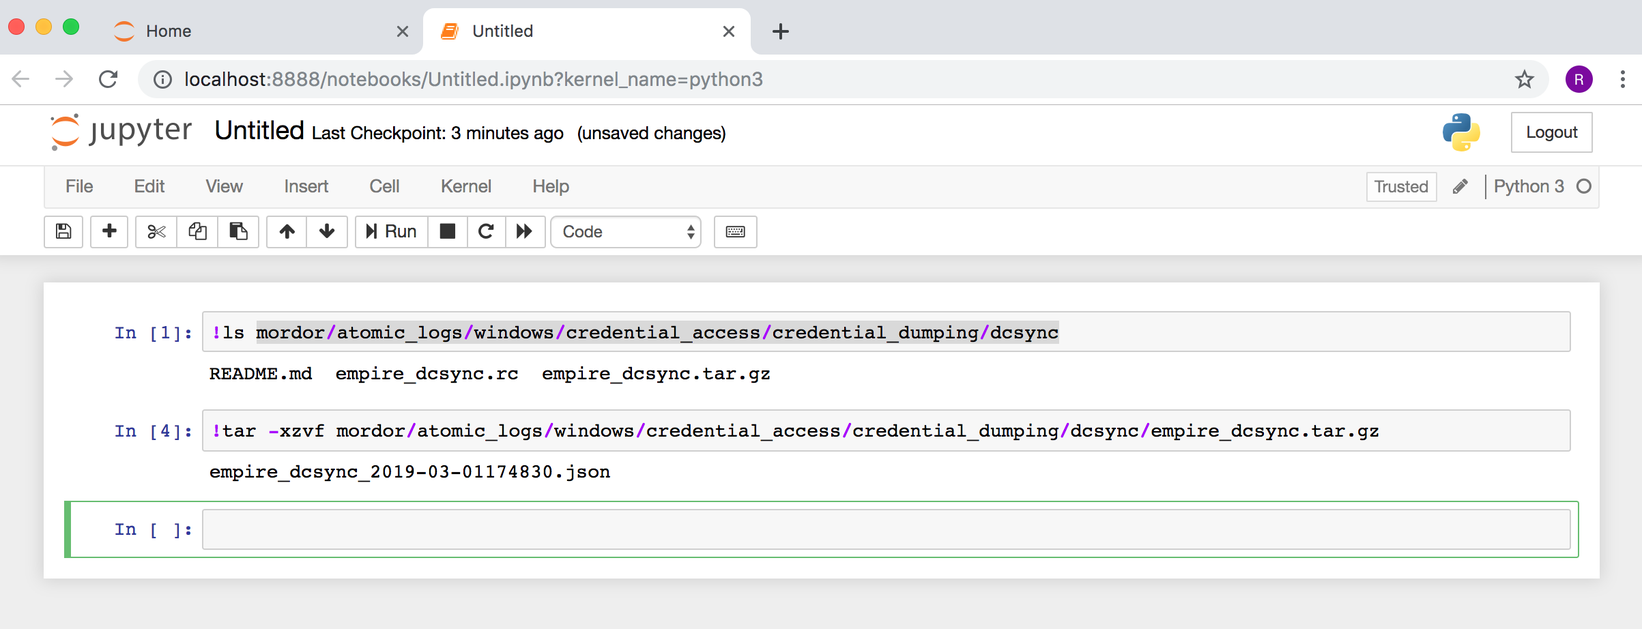
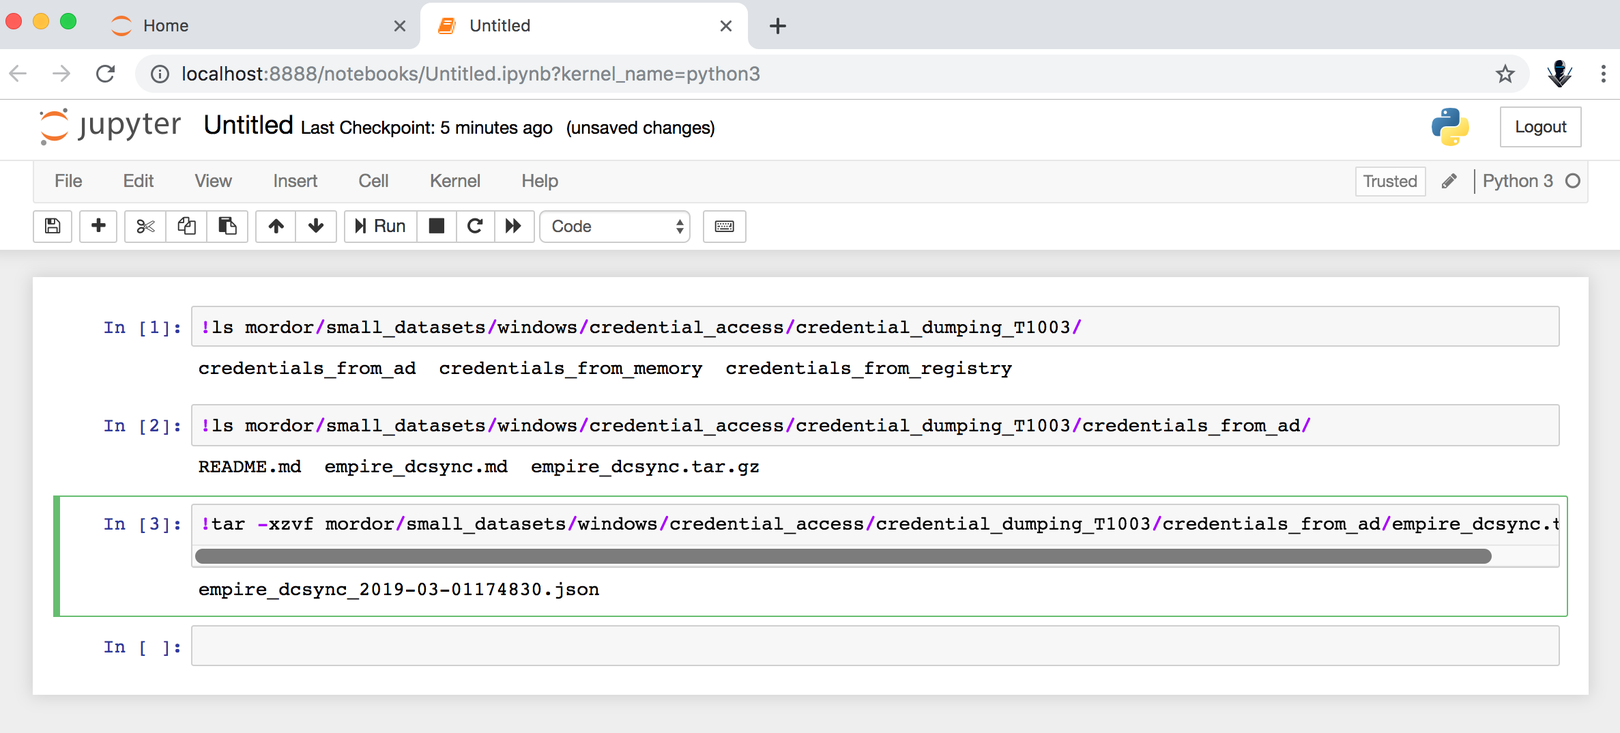
Redthedocs Update
Updating Images

Changed region(s): [[0.0, 0.0, 1.0, 0.9414]]

diff --git a/docs/build/html/searchindex.js b/docs/build/html/searchindex.js
@@ -1,1 +1,1 @@
-Search.setIndex({docnames:["consume_mordor","index","license","network_config","network_design"],envversion:{"sphinx.domains.c":1,"sphinx.domains.changeset":1,"sphinx.domains.cpp":1,"sphinx.domains.javascript":1,"sphinx.domains.math":2,"sphinx.domains.python":1,"sphinx.domains.rst":1,"sphinx.domains.std":1,"sphinx.ext.viewcode":1,sphinx:55},filenames:["consume_mordor.rst","index.rst","license.rst","network_config.rst","network_design.rst"],objects:{},objnames:{},objtypes:{},terms:{"00c04fc2dcd2":0,"0facbeda640c":0,"1131f6aa":0,"1131f6ad":0,"11d1":0,"2e83a98485eb":0,"444d":0,"4c62":0,"6gb":0,"89e95b76":0,"90311c8670ed2bd71f7d9e8378fdc39711ef65a0b3ed6296":0,"991a":0,"9c07":0,"case":[1,2],"class":2,"default":0,"final":2,"function":2,"import":2,"long":2,"new":[0,2],"public":[1,2],"return":2,"short":2,"void":2,AND:[0,2],And:2,BEING:2,BUT:2,But:2,FOR:2,For:2,HAS:2,MBs:0,NOT:[0,2],Not:2,SUCH:2,Such:2,THE:[0,2],THERE:2,The:[0,1,2,4],These:2,USE:2,Use:[0,2],WILL:2,WITH:2,abil:2,about:[1,2],abov:[0,2],absenc:2,absolut:2,abus:2,accept:2,access:[0,2],accompani:2,accord:2,account:0,acct001:4,achiev:2,acknowledg:2,acquir:2,across:[1,2],act:0,action:2,activ:[1,2,4],actual:2,actviti:0,adapt:2,add:2,added:2,addit:[1,2],address:[2,4],administr:4,adopt:2,advers:2,adversari:[1,4],advis:2,affect:2,affero:2,affirm:2,afford:1,after:2,against:2,aggreg:2,agre:2,agreement:2,aim:2,all:[0,2],alleg:2,allow:[0,1,2],along:2,alpha02262019:0,alreadi:2,also:2,altern:2,although:2,among:2,analysi:0,analyst:1,analyt:1,analyz:0,ancillari:2,ani:2,anti:2,anyon:2,anyth:2,apach:0,app:0,appli:2,applic:[0,2],appropri:2,approxim:2,area:2,aris:2,around:1,arrang:2,articl:2,ask:2,assert:2,asset:2,associ:2,assum:2,assumpt:2,assur:2,atomic_log:0,att:1,attach:2,attack:[],attempt:2,attribut:2,audit:[],author:[0,2],auto:0,automat:2,avail:[0,2],avoid:2,awai:2,awesom:1,bad:1,base:[0,2],base_url:0,basic:[0,2],becaus:2,been:2,beer:[],behalf:2,being:[0,2],believ:2,below:2,benefit:2,best:2,between:2,beyond:2,bodi:2,book:1,both:2,box:[0,2],brief:2,broker:0,brows:0,browser:0,build:0,busi:2,call:2,can:[0,1,2],cannot:2,captur:1,carri:2,categor:1,caus:2,ceas:2,certain:2,cessat:2,chang:2,character:2,charg:2,check:0,choic:0,choos:[0,2],circumst:2,circumvent:2,civil:2,claim:2,clear:2,clearli:2,client:4,clone:0,close:2,code:[0,2],collect:[1,2],collector:4,colllect:4,com:0,combin:2,come:[1,2,4],command:[0,2],commerci:2,commit:2,common:2,commun:[0,2],compil:2,complet:0,compli:2,complianc:2,compon:2,compos:0,comput:2,concern:2,conda:0,condit:2,configur:1,confirm:0,connect:2,consequ:2,consequenti:2,consid:2,consist:2,conspicu:2,constantli:2,constitut:2,constru:2,consum:2,consumpt:1,contact:2,contain:[0,2],content:2,context:[1,2],continu:2,contractu:2,contradict:2,contrast:2,contribut:1,contributor:2,control:[0,2],convei:2,conveni:[0,2],convey:2,cooki:0,copi:[0,2],copyleft:2,copyright:2,correct:2,correl:1,correspond:2,cost:2,could:[0,2],counterclaim:2,countri:2,cours:2,court:2,coven:2,cover:2,coverag:2,creat:0,creativ:1,credential_access:0,credential_dump:0,criterion:2,cross:2,ctf:1,cure:2,current:0,custom:2,customarili:2,cyb3rward0g:0,dai:2,damag:2,danger:2,data:[1,2],dataset:1,date:2,dcsync:0,decemb:2,decid:2,declin:2,decompress:0,deem:2,defect:2,defens:2,defin:[0,1,2],definit:2,delimit:0,deni:2,denomin:2,deploi:[],depriv:2,design:[0,1,2],detail:2,detect:1,determin:2,develop:[0,1,2],devic:[1,2],differ:2,dir:0,direct:2,directli:[0,2],directori:0,disclaim:2,discov:0,discriminatori:2,displai:2,distinguish:2,distribut:[0,2],divers:1,docker:0,document:[0,2],doe:2,domain:[0,2],done:1,doubt:2,down:0,download:0,downstream:2,durabl:[0,2],dwell:2,dynam:2,each:[1,2],earlier:2,easi:1,easier:1,edenhil:[],edit:0,effect:2,effici:0,effort:2,either:2,elast:0,elastalert:0,elasticsearch:0,electron:2,elk:0,embodi:2,empire_dcsync:0,empire_dcsync_2019:0,employ:2,enabl:[1,2],end:2,endpoint:[],enforc:2,enhanc:1,enough:0,ensur:2,enter:[0,2],entir:2,entiti:2,env:0,environ:[1,4],equat:0,equival:2,erron:2,essenti:[2,4],even:[0,2],event:[1,2],event_id:0,ever:2,everi:2,everyon:2,evil:1,exact:2,exampl:[0,2],except:2,exclud:2,exclus:2,excus:2,execut:2,exercis:[1,2],expect:2,expedit:1,experi:0,explain:2,explicitli:2,explor:0,express:2,expressli:2,extend:2,extens:[0,2],extent:2,f79f:0,facil:2,facilit:1,fail:2,failur:2,fair:2,fals:1,famili:2,fashion:2,fast:0,fault:0,favor:2,favori:0,featur:2,fee:2,feel:0,file:[0,1,2],film:1,film_seri:[],find:2,first:2,fit:2,fix:2,flag:[0,1],flow:2,folder:0,follow:[0,2],forbid:2,forc:[1,2],form:[1,2],format:2,found:2,foundat:2,framework:1,free:[1,2],freedom:2,from:[0,1,2,4],fsf:2,fulfil:2,full:2,fundament:2,further:2,futur:2,gener:[0,1,2],get:[0,1,2],git:0,github:0,give:2,given:2,gnu:[1,2],going:0,govern:2,gpl:[0,2],grab:0,grant:2,grati:2,greatest:2,grep:0,group:1,guarante:2,gui:2,had:2,has:2,have:[0,1,2],helk:[0,4],helk_instal:0,henc:1,here:0,hereaft:2,hfdc1:4,hfdc:[],hit:0,holder:2,home:0,hope:2,host:[0,2],household:2,how:2,howev:[0,2],hr001:4,html:[0,2],htpasswd:0,http:[0,2],hunt:[0,1],hunter:1,hypothet:2,idea:2,ideal:0,identifi:2,implement:2,impli:2,impos:2,improv:1,inabl:2,inaccur:2,inc:2,incident:2,includ:2,inclus:2,incompat:2,incorpor:2,indemnif:2,independ:2,index:[],indic:2,individu:2,industri:2,info:0,inform:[0,2,4],infring:2,ingest:[0,1],initi:[1,2],insid:2,instal:[0,2],instead:2,instruct:0,intact:2,intend:2,intent:2,interact:2,interchang:2,interest:2,interf:2,interfac:[0,2],interpret:2,intim:2,invalid:2,irrevoc:2,it001:4,item:2,its:2,itself:2,javascript:1,json:[0,1],june:2,jupyt:1,jupyter_typ:0,jupyterlab:0,just:0,jvm:0,kafcakat:0,kafka:[0,1],kafkacat:1,kali:4,keep:2,kei:2,kernel:[0,2],kibana:0,kind:2,know:2,knowingli:2,knowledg:2,known:1,ksql:0,lab:0,label:1,lake:0,languag:2,larger:2,later:2,law:2,lawsuit:2,learn:1,least:2,legal:2,lesser:2,let:0,lgpl:2,liabil:2,liabl:2,lib:0,librari:[0,2],licens:[0,1],license:2,licensor:2,like:[0,2],likewis:2,limit:2,line:2,link:2,linux:[0,4],list:2,litig:2,live:[0,1],load:0,local:[0,2],log:4,logstash:0,look:0,lord:1,loss:2,lrodriguez:4,machin:2,maco:4,made:2,mai:2,mail:2,main:[0,4],main_pag:[],maintain:2,major:2,make:[0,2],malici:1,manner:2,manufactur:2,map:1,march:2,mark:2,mask:2,materi:2,max_map_count:0,mean:2,measur:2,medium:2,meet:2,memori:0,menu:2,merchant:2,mere:2,merg:2,messag:0,met:2,method:2,microsoft:[],might:2,misrepresent:2,mitr:1,mode:[0,2],model:2,modif:2,modifi:2,modul:[],mordor:4,more:[0,1,2],moreov:2,most:2,mount:0,multi:0,must:2,name:[0,1,2,4],narr:0,natur:2,nbserver:0,necessari:2,need:2,neither:2,netcat:0,network:[1,2],next:2,ngnix:0,nnmartha:4,nnorah:[],non:[0,2],noncommerci:2,nor:2,normal:2,notat:1,notebook:1,notebook_cookie_secret:0,notebookapp:0,noth:2,notic:2,notifi:2,notwithstand:2,now:0,number:[1,2],object:[1,2],object_properti:0,oblig:2,occasion:2,occur:[1,2],offer:2,offici:[0,2],one:[0,2],onli:[0,1,2],open:0,oper:2,opt:0,option:[0,2],order:2,org:2,organ:2,origin:2,other:[0,2],otherwis:2,our:2,out:2,output:[0,1,2],outsid:2,own:[0,1,2],packag:[0,2],page:[],panda:0,paper:2,paragraph:2,paramet:0,part:2,parti:2,particular:2,pass:2,password:[0,2],past:0,patent:2,pattern:2,payment:2,peer:2,perform:2,perman:2,permiss:2,permit:2,perpetu:2,person:2,pertin:2,pgustavo:4,philosophi:2,physic:2,pick:0,piec:2,pipelin:0,place:[1,2],plai:0,platform:[1,4],playbook:1,pleas:2,plu:2,pointer:2,port:0,portabl:1,portion:2,posit:1,possess:2,possibl:2,potenti:[0,1],power:2,practic:2,pre:[0,1],preambl:2,precis:2,predecessor:2,prefer:2,present:2,preserv:2,prevent:2,previou:2,price:2,primarili:2,prior:2,privat:2,problem:2,procedur:2,procur:2,produc:[0,2],product:2,program:2,programm:2,prohibit:2,project:[0,1],promin:2,propag:2,properti:2,proprietari:2,protect:2,protocol:2,prove:2,provid:[0,1,2],provis:2,provision:2,proxi:2,publicli:2,publish:[0,2],purpos:[1,2,4],pursuant:2,pwd:0,python3:0,python:0,qualifi:2,qualiti:2,queri:0,ram:0,read:[0,2],readabl:2,readi:[0,2],readili:2,real:[0,1],reason:2,receipt:2,receiv:2,recipi:2,recogn:2,record:[0,1],red:[1,4],redistribut:2,reduc:1,refer:2,refrain:2,regard:2,regardless:2,regener:2,reinstat:2,relationship:2,releas:2,relev:2,reli:2,relicens:2,remain:2,remov:2,render:2,repair:2,replic:4,repo:0,repositori:1,repres:[1,2],requir:2,research:1,resolv:2,respect:[1,2],respons:2,restrict:2,result:2,retain:2,review:2,revis:2,right:2,ring:1,risk:2,roberto:0,rodriguez:0,rom:2,root:[],royalti:2,rule:2,run:[0,2],runtim:0,safest:2,sai:2,sake:2,sale:2,same:2,sampl:1,satisfi:2,sauron:1,scalabl:0,school:2,scientist:1,scope:2,script:[0,2],search:[],secondarili:2,secret:0,section:[1,2],secur:1,see:2,sell:2,semi:1,semiconductor:2,send:0,separ:[0,2],seri:1,serv:[0,2],server:[0,2],servic:2,set:0,shall:2,share:[0,2],shire:[],should:2,show:2,shut:0,siem:0,sign:2,signific:2,similar:2,simpli:0,simul:[0,1],simultan:2,singl:2,sire:[],site:0,skill:1,skip:0,small:[0,4],softwar:2,sold:2,sole:2,some:[0,2],soon:4,sourc:[0,1,2],sourcess:1,spare:2,spark:0,speak:2,special:2,specif:[0,1,2],specifi:2,spirit:2,stack:0,stand:2,standard:2,start:[0,1,2],start_log:[],state:2,statement:2,statu:2,stdin:0,step:2,stop:0,storag:2,strategi:1,style:1,sub:1,subdivid:2,subject:2,sublicens:2,subprogram:2,subroutin:2,subscrib:0,subscript:0,subsect:2,substanti:2,sudo:0,sue:2,suffic:2,supplement:2,support:2,sure:[0,2],surrend:2,surviv:2,sustain:2,sysmon:[],system:[0,2],systemat:2,tab:0,tactic:1,take:2,taken:0,tangibl:2,tar:0,team:[0,1,4],techniqu:[0,1],technolog:[1,2],tell:2,term:2,termin:2,test:1,text:0,than:2,the_lord_of_the_rings_:[],thei:2,them:2,therefor:2,thi:[0,1,2],thing:2,think:0,third:2,those:2,though:2,threat:1,threaten:2,three:2,through:[0,2],thu:2,time:[0,2],token:0,toler:0,too:2,tool:[0,2],toolkit:[],topic:0,trade:2,trademark:2,train:1,transact:2,transfer:2,transmiss:2,treat:2,treati:2,tree:0,trial:0,twice:0,two:2,type:[0,2],typic:2,ubuntu:0,unaccept:2,under:2,unless:2,unlimit:2,unmodifi:2,unnecessari:2,unpack:2,until:2,updat:2,url:0,use:[1,2],used:2,useful:2,user:[2,4],user_nam:0,uses:2,using:[0,2],valid:[1,2],valu:0,variabl:0,verbatim:2,veri:4,verifi:0,version:[0,2,4],via:0,view:[0,2],violat:2,visibl:2,visual:0,volum:2,wai:[0,1,2],waiv:2,waiver:2,want:[0,2],wardog:4,warranti:2,web:0,wec:[],wecserv:4,wef:[],welcom:2,well:2,were:2,wevserv:[],what:2,whatev:2,when:2,where:[1,2],whether:2,which:2,who:2,whole:2,whom:2,whose:2,why:2,wide:2,wiki:[],wikipedia:[],win:4,window:[0,2,4],winlogbeat:0,wipo:2,wish:2,within:2,without:2,work:[0,2],worldwid:2,would:2,write:[0,2],written:2,www:2,xenial:0,xml:[],xzvf:0,year:2,yml:0,you:[0,1,2],your:[0,1,2],yourself:2},titles:["Consume Mordor Data","Mordor documentation","Licenses","Network Configuration","Network Design"],titleterms:{collect:3,configur:3,consum:0,data:[0,3],design:4,devic:4,document:1,goal:1,indic:[],jupyt:0,kafkacat:0,licens:2,log:0,mordor:[0,1],network:[3,4],notebook:0,requir:0,style:0,tabl:[]}})
+Search.setIndex({docnames:["consume_mordor","index","license","network_config","network_design"],envversion:{"sphinx.domains.c":1,"sphinx.domains.changeset":1,"sphinx.domains.cpp":1,"sphinx.domains.javascript":1,"sphinx.domains.math":2,"sphinx.domains.python":1,"sphinx.domains.rst":1,"sphinx.domains.std":1,"sphinx.ext.viewcode":1,sphinx:55},filenames:["consume_mordor.rst","index.rst","license.rst","network_config.rst","network_design.rst"],objects:{},objnames:{},objtypes:{},terms:{"00c04fc2dcd2":0,"0facbeda640c":0,"1131f6aa":0,"1131f6ad":0,"11d1":0,"2e83a98485eb":0,"444d":0,"4c62":0,"6gb":0,"89e95b76":0,"90311c8670ed2bd71f7d9e8378fdc39711ef65a0b3ed6296":0,"991a":0,"9c07":0,"case":[1,2],"class":2,"default":0,"final":2,"function":2,"import":2,"long":2,"new":[0,2],"public":[1,2],"return":2,"short":2,"void":2,AND:[0,2],And:2,BEING:2,BUT:2,But:2,FOR:2,For:2,HAS:2,MBs:0,NOT:[0,2],Not:2,SUCH:2,Such:2,THE:[0,2],THERE:2,The:[0,1,2,4],These:2,USE:2,Use:[0,2],WILL:2,WITH:2,abil:2,about:[1,2],abov:[0,2],absenc:2,absolut:2,abus:2,accept:2,access:[0,2],accompani:2,accord:2,account:0,acct001:4,achiev:2,acknowledg:2,acquir:2,across:[1,2],act:0,action:2,activ:[1,2,4],actual:2,actviti:0,adapt:2,add:2,added:2,addit:[1,2],address:[2,4],administr:4,adopt:2,advers:2,adversari:[1,4],advis:2,affect:2,affero:2,affirm:2,afford:1,after:2,against:2,aggreg:2,agre:2,agreement:2,aim:2,all:[0,2],alleg:2,allow:[0,1,2],along:2,alpha02262019:0,alreadi:2,also:2,altern:2,although:2,among:2,analysi:0,analyst:1,analyt:1,analyz:0,ancillari:2,ani:2,anti:2,anyon:2,anyth:2,apach:0,app:0,appli:2,applic:[0,2],appropri:2,approxim:2,area:2,aris:2,around:1,arrang:2,articl:2,ask:2,assert:2,asset:2,associ:2,assum:2,assumpt:2,assur:2,atomic_log:[],att:1,attach:2,attack:[],attempt:2,attribut:2,audit:[],author:[0,2],auto:0,automat:2,avail:[0,2],avoid:2,awai:2,awesom:1,bad:1,base:[0,2],base_url:0,basic:[0,2],becaus:2,been:2,beer:[],behalf:2,being:[0,2],believ:2,below:2,benefit:2,best:2,between:2,beyond:2,bodi:2,book:1,both:2,box:[0,2],brief:2,broker:0,brows:0,browser:0,build:0,busi:2,call:2,can:[0,1,2],cannot:2,captur:1,carri:2,categor:1,caus:2,ceas:2,certain:2,cessat:2,chang:2,character:2,charg:2,check:0,choic:0,choos:[0,2],circumst:2,circumvent:2,civil:2,claim:2,clear:2,clearli:2,client:4,clone:0,close:2,code:[0,2],collect:[1,2],collector:4,colllect:4,com:0,combin:2,come:[1,2,4],command:[0,2],commerci:2,commit:2,common:2,commun:[0,2],compil:2,complet:0,compli:2,complianc:2,compon:2,compos:0,comput:2,concern:2,conda:0,condit:2,configur:1,confirm:0,connect:2,consequ:2,consequenti:2,consid:2,consist:2,conspicu:2,constantli:2,constitut:2,constru:2,consum:2,consumpt:1,contact:2,contain:[0,2],content:2,context:[1,2],continu:2,contractu:2,contradict:2,contrast:2,contribut:1,contributor:2,control:[0,2],convei:2,conveni:[0,2],convey:2,cooki:0,copi:[0,2],copyleft:2,copyright:2,correct:2,correl:1,correspond:2,cost:2,could:[0,2],counterclaim:2,countri:2,cours:2,court:2,coven:2,cover:2,coverag:2,creat:0,creativ:1,credential_access:0,credential_dump:[],credential_dumping_t1003:0,credentials_from_ad:0,criterion:2,cross:2,ctf:1,cure:2,current:0,custom:2,customarili:2,cyb3rward0g:0,dai:2,damag:2,danger:2,data:[1,2],dataset:1,date:2,dcsync:0,decemb:2,decid:2,declin:2,decompress:0,deem:2,defect:2,defens:2,defin:[0,1,2],definit:2,delimit:0,deni:2,denomin:2,deploi:[],depriv:2,design:[0,1,2],detail:2,detect:1,determin:2,develop:[0,1,2],devic:[1,2],differ:2,dir:0,direct:2,directli:[0,2],directori:0,disclaim:2,discov:0,discriminatori:2,displai:2,distinguish:2,distribut:[0,2],divers:1,docker:0,document:[0,2],doe:2,domain:[0,2],done:1,doubt:2,down:0,download:0,downstream:2,durabl:[0,2],dwell:2,dynam:2,each:[1,2],earlier:2,easi:1,easier:1,edenhil:[],edit:0,effect:2,effici:0,effort:2,either:2,elast:0,elastalert:0,elasticsearch:0,electron:2,elk:0,embodi:2,empire_dcsync:0,empire_dcsync_2019:0,employ:2,enabl:[1,2],end:2,endpoint:[],enforc:2,enhanc:1,enough:0,ensur:2,enter:[0,2],entir:2,entiti:2,env:0,environ:[1,4],equat:0,equival:2,erron:2,essenti:[2,4],even:[0,2],event:[1,2],event_id:0,ever:2,everi:2,everyon:2,evil:1,exact:2,exampl:[0,2],except:2,exclud:2,exclus:2,excus:2,execut:2,exercis:[1,2],expect:2,expedit:1,experi:0,explain:2,explicitli:2,explor:0,express:2,expressli:2,extend:2,extens:[0,2],extent:2,f79f:0,facil:2,facilit:1,fail:2,failur:2,fair:2,fals:1,famili:2,fashion:2,fast:0,fault:0,favor:2,favori:0,featur:2,fee:2,feel:0,file:[0,1,2],film:1,film_seri:[],find:2,first:2,fit:2,fix:2,flag:[0,1],flow:2,folder:0,follow:[0,2],forbid:2,forc:[1,2],form:[1,2],format:2,found:2,foundat:2,framework:1,free:[1,2],freedom:2,from:[0,1,2,4],fsf:2,fulfil:2,full:2,fundament:2,further:2,futur:2,gener:[0,1,2],get:[0,1,2],git:0,github:0,give:2,given:2,gnu:[1,2],going:0,govern:2,gpl:[0,2],grab:0,grant:2,grati:2,greatest:2,grep:0,group:1,guarante:2,gui:2,had:2,has:2,have:[0,1,2],helk:[0,4],helk_instal:0,henc:1,here:0,hereaft:2,hfdc1:4,hfdc:[],hit:0,holder:2,home:0,hope:2,host:[0,2],household:2,how:2,howev:[0,2],hr001:4,html:[0,2],htpasswd:0,http:[0,2],hunt:[0,1],hunter:1,hypothet:2,idea:2,ideal:0,identifi:2,implement:2,impli:2,impos:2,improv:1,inabl:2,inaccur:2,inc:2,incident:2,includ:2,inclus:2,incompat:2,incorpor:2,indemnif:2,independ:2,index:[],indic:2,individu:2,industri:2,info:0,inform:[0,2,4],infring:2,ingest:[0,1],initi:[1,2],insid:2,instal:[0,2],instead:2,instruct:0,intact:2,intend:2,intent:2,interact:2,interchang:2,interest:2,interf:2,interfac:[0,2],interpret:2,intim:2,invalid:2,irrevoc:2,it001:4,item:2,its:2,itself:2,javascript:1,json:[0,1],june:2,jupyt:1,jupyter_typ:0,jupyterlab:0,just:0,jvm:0,kafcakat:0,kafka:[0,1],kafkacat:1,kali:4,keep:2,kei:2,kernel:[0,2],kibana:0,kind:2,know:2,knowingli:2,knowledg:2,known:1,ksql:0,lab:0,label:1,lake:0,languag:2,larger:2,later:2,law:2,lawsuit:2,learn:1,least:2,legal:2,lesser:2,let:0,lgpl:2,liabil:2,liabl:2,lib:0,librari:[0,2],licens:[0,1],license:2,licensor:2,like:[0,2],likewis:2,limit:2,line:2,link:2,linux:[0,4],list:2,litig:2,live:[0,1],load:0,local:[0,2],log:4,logstash:0,look:0,lord:1,loss:2,lrodriguez:4,machin:2,maco:4,made:2,mai:2,mail:2,main:[0,4],main_pag:[],maintain:2,major:2,make:[0,2],malici:1,manner:2,manufactur:2,map:1,march:2,mark:2,mask:2,materi:2,max_map_count:0,mean:2,measur:2,medium:2,meet:2,memori:0,menu:2,merchant:2,mere:2,merg:2,messag:0,met:2,method:2,microsoft:[],might:2,misrepresent:2,mitr:1,mode:[0,2],model:2,modif:2,modifi:2,modul:[],mordor:4,more:[0,1,2],moreov:2,most:2,mount:0,multi:0,must:2,name:[0,1,2,4],narr:0,natur:2,nbserver:0,necessari:2,need:2,neither:2,netcat:0,network:[1,2],next:2,ngnix:0,nnmartha:4,nnorah:[],non:[0,2],noncommerci:2,nor:2,normal:2,notat:1,notebook:1,notebook_cookie_secret:0,notebookapp:0,noth:2,notic:2,notifi:2,notwithstand:2,now:0,number:[1,2],object:[1,2],object_properti:0,oblig:2,occasion:2,occur:[1,2],offer:2,offici:[0,2],one:[0,2],onli:[0,1,2],open:0,oper:2,opt:0,option:[0,2],order:2,org:2,organ:2,origin:2,other:[0,2],otherwis:2,our:2,out:2,output:[0,1,2],outsid:2,own:[0,1,2],packag:[0,2],page:[],panda:0,paper:2,paragraph:2,paramet:0,part:2,parti:2,particular:2,pass:2,password:[0,2],past:0,patent:2,pattern:2,payment:2,peer:2,perform:2,perman:2,permiss:2,permit:2,perpetu:2,person:2,pertin:2,pgustavo:4,philosophi:2,physic:2,pick:0,piec:2,pipelin:0,place:[1,2],plai:0,platform:[1,4],playbook:1,pleas:2,plu:2,pointer:2,port:0,portabl:1,portion:2,posit:1,possess:2,possibl:2,potenti:[0,1],power:2,practic:2,pre:[0,1],preambl:2,precis:2,predecessor:2,prefer:2,present:2,preserv:2,prevent:2,previou:2,price:2,primarili:2,prior:2,privat:2,problem:2,procedur:2,procur:2,produc:[0,2],product:2,program:2,programm:2,prohibit:2,project:[0,1],promin:2,propag:2,properti:2,proprietari:2,protect:2,protocol:2,prove:2,provid:[0,1,2],provis:2,provision:2,proxi:2,publicli:2,publish:[0,2],purpos:[1,2,4],pursuant:2,pwd:0,python3:0,python:0,qualifi:2,qualiti:2,queri:0,ram:0,read:[0,2],readabl:2,readi:[0,2],readili:2,real:[0,1],reason:2,receipt:2,receiv:2,recipi:2,recogn:2,record:[0,1],red:[1,4],redistribut:2,reduc:1,refer:2,refrain:2,regard:2,regardless:2,regener:2,reinstat:2,relationship:2,releas:2,relev:2,reli:2,relicens:2,remain:2,remov:2,render:2,repair:2,replic:4,repo:0,repositori:1,repres:[1,2],requir:2,research:1,resolv:2,respect:[1,2],respons:2,restrict:2,result:2,retain:2,review:2,revis:2,right:2,ring:1,risk:2,roberto:0,rodriguez:0,rom:2,root:[],royalti:2,rule:2,run:[0,2],runtim:0,safest:2,sai:2,sake:2,sale:2,same:2,sampl:1,satisfi:2,sauron:1,scalabl:0,school:2,scientist:1,scope:2,script:[0,2],search:[],secondarili:2,secret:0,section:[1,2],secur:1,see:2,sell:2,semi:1,semiconductor:2,send:0,separ:[0,2],seri:1,serv:[0,2],server:[0,2],servic:2,set:0,shall:2,share:[0,2],shire:[],should:2,show:2,shut:0,siem:0,sign:2,signific:2,similar:2,simpli:0,simul:[0,1],simultan:2,singl:2,sire:[],site:0,skill:1,skip:0,small:[0,4],small_dataset:0,softwar:2,sold:2,sole:2,some:[0,2],soon:4,sourc:[0,1,2],sourcess:1,spare:2,spark:0,speak:2,special:2,specif:[0,1,2],specifi:2,spirit:2,stack:0,stand:2,standard:2,start:[0,1,2],start_log:[],state:2,statement:2,statu:2,stdin:0,step:2,stop:0,storag:2,strategi:1,style:1,sub:1,subdivid:2,subject:2,sublicens:2,subprogram:2,subroutin:2,subscrib:0,subscript:0,subsect:2,substanti:2,sudo:0,sue:2,suffic:2,supplement:2,support:2,sure:[0,2],surrend:2,surviv:2,sustain:2,sysmon:[],system:[0,2],systemat:2,tab:0,tactic:1,take:2,taken:0,tangibl:2,tar:0,team:[0,1,4],techniqu:[0,1],technolog:[1,2],tell:2,term:2,termin:2,test:1,text:0,than:2,the_lord_of_the_rings_:[],thei:2,them:2,therefor:2,thi:[0,1,2],thing:2,think:0,third:2,those:2,though:2,threat:1,threaten:2,three:2,through:[0,2],thu:2,time:[0,2],token:0,toler:0,too:2,tool:[0,2],toolkit:[],topic:0,trade:2,trademark:2,train:1,transact:2,transfer:2,transmiss:2,treat:2,treati:2,tree:0,trial:0,twice:0,two:2,type:[0,2],typic:2,ubuntu:0,unaccept:2,under:2,unless:2,unlimit:2,unmodifi:2,unnecessari:2,unpack:2,until:2,updat:2,url:0,use:[1,2],used:2,useful:2,user:[2,4],user_nam:0,uses:2,using:[0,2],valid:[1,2],valu:0,variabl:0,verbatim:2,veri:4,verifi:0,version:[0,2,4],via:0,view:[0,2],violat:2,visibl:2,visual:0,volum:2,wai:[0,1,2],waiv:2,waiver:2,want:[0,2],wardog:4,warranti:2,web:0,wec:[],wecserv:4,wef:[],welcom:2,well:2,were:2,wevserv:[],what:2,whatev:2,when:2,where:[1,2],whether:2,which:2,who:2,whole:2,whom:2,whose:2,why:2,wide:2,wiki:[],wikipedia:[],win:4,window:[0,2,4],winlogbeat:0,wipo:2,wish:2,within:2,without:2,work:[0,2],worldwid:2,would:2,write:[0,2],written:2,www:2,xenial:0,xml:[],xzvf:0,year:2,yml:0,you:[0,1,2],your:[0,1,2],yourself:2},titles:["Consume Mordor Data","Mordor documentation","Licenses","Network Configuration","Network Design"],titleterms:{collect:3,configur:3,consum:0,data:[0,3],design:4,devic:4,document:1,goal:1,indic:[],jupyt:0,kafkacat:0,licens:2,log:0,mordor:[0,1],network:[3,4],notebook:0,requir:0,style:0,tabl:[]}})

diff --git a/docs/build/html/consume_mordor.html b/docs/build/html/consume_mordor.html
@@ -35,8 +35,8 @@
   <link rel="stylesheet" href="_static/pygments.css" type="text/css" />
     <link rel="index" title="Index" href="genindex.html" />
     <link rel="search" title="Search" href="search.html" />
-    <link rel="next" title="Network Design" href="network_design.html" />
-    <link rel="prev" title="Mordor documentation" href="index.html" /> 
+    <link rel="next" title="Licenses" href="license.html" />
+    <link rel="prev" title="Network Configuration" href="network_config.html" /> 
 </head>
 
 <body class="wy-body-for-nav">
@@ -80,7 +80,12 @@
               
             
             
-              <p class="caption"><span class="caption-text">Getting Started:</span></p>
+              <p class="caption"><span class="caption-text">Mordor Environment:</span></p>
+<ul>
+<li class="toctree-l1"><a class="reference internal" href="network_design.html">Network Design</a></li>
+<li class="toctree-l1"><a class="reference internal" href="network_config.html">Network Configurations</a></li>
+</ul>
+<p class="caption"><span class="caption-text">Getting Started:</span></p>
 <ul class="current">
 <li class="toctree-l1 current"><a class="current reference internal" href="#">Mordor Data Consumption</a><ul>
 <li class="toctree-l2"><a class="reference internal" href="#kafkacat-style">Kafkacat Style</a><ul>
@@ -95,11 +100,6 @@
 </li>
 </ul>
 </li>
-</ul>
-<p class="caption"><span class="caption-text">Mordor Environment:</span></p>
-<ul>
-<li class="toctree-l1"><a class="reference internal" href="network_design.html">Network Design</a></li>
-<li class="toctree-l1"><a class="reference internal" href="network_config.html">Network Configurations</a></li>
 </ul>
 <p class="caption"><span class="caption-text">Licenses:</span></p>
 <ul>
@@ -234,7 +234,7 @@ You can run it with 5-6GB of RAM now (More information <a class="reference exter
 <p>Download the mordor repo and choose your technique:</p>
 <div class="highlight-console notranslate"><div class="highlight"><pre><span></span><span class="gp">$</span> <span class="nb">cd</span> ../../
 <span class="gp">$</span> git clone https://github.com/Cyb3rWard0g/mordor.git
-<span class="gp">$</span> <span class="nb">cd</span> mordor/atomic_logs/windows/credential_access/credential_dumping/dcsync
+<span class="gp">$</span> <span class="nb">cd</span> mordor/small_datasets/windows/credential_access/credential_dumping_T1003/credentials_from_ad/
 </pre></div>
 </div>
 <p>Decompress the specific mordor log file</p>
@@ -324,11 +324,11 @@ You can run it with 5-6GB of RAM now (More information <a class="reference exter
 <a class="reference internal image-reference" href="_images/jupyter-new-notebook.png"><img alt="Jupyter new notebook" src="_images/jupyter-new-notebook.png" style="width: 728.1px; height: 373.5px;" /></a>
 <p>You can go through the directory tree of the mordor project and even hit [TAB] for auto-completion to get to a specific technique</p>
 <p>Create a new notebook</p>
-<a class="reference internal image-reference" href="_images/jupyter-list-dir.png"><img alt="Jupyter list mordor files" src="_images/jupyter-list-dir.png" style="width: 842.8px; height: 280.0px;" /></a>
+<a class="reference internal image-reference" href="_images/jupyter-list-dir.png"><img alt="Jupyter list mordor files" src="_images/jupyter-list-dir.png" style="width: 724.8px; height: 295.8px;" /></a>
 <p>Decompress the mordor file you want to work with. Let’s pick a dcsync example.</p>
-<a class="reference internal image-reference" href="_images/jupyter-decompress-file.png"><img alt="Jupyter decompress file" src="_images/jupyter-decompress-file.png" style="width: 842.0999999999999px; height: 322.7px;" /></a>
+<a class="reference internal image-reference" href="_images/jupyter-decompress-file.png"><img alt="Jupyter decompress file" src="_images/jupyter-decompress-file.png" style="width: 712.1999999999999px; height: 322.2px;" /></a>
 <p>Use pandas to read the file. You are ready to start exploring and analyzing the data</p>
-<a class="reference internal image-reference" href="_images/jupyter-dcsync-logs.png"><img alt="Jupyter Pandas" src="_images/jupyter-dcsync-logs.png" style="width: 844.1999999999999px; height: 566.3px;" /></a>
+<a class="reference internal image-reference" href="_images/jupyter-dcsync-logs.png"><img alt="Jupyter Pandas" src="_images/jupyter-dcsync-logs.png" style="width: 714.0px; height: 478.2px;" /></a>
 </div>
 </div>
 </div>
@@ -341,10 +341,10 @@ You can run it with 5-6GB of RAM now (More information <a class="reference exter
   
     <div class="rst-footer-buttons" role="navigation" aria-label="footer navigation">
       
-        <a href="network_design.html" class="btn btn-neutral float-right" title="Network Design" accesskey="n" rel="next">Next <span class="fa fa-arrow-circle-right"></span></a>
+        <a href="license.html" class="btn btn-neutral float-right" title="Licenses" accesskey="n" rel="next">Next <span class="fa fa-arrow-circle-right"></span></a>
       
       
-        <a href="index.html" class="btn btn-neutral float-left" title="Mordor documentation" accesskey="p" rel="prev"><span class="fa fa-arrow-circle-left"></span> Previous</a>
+        <a href="network_config.html" class="btn btn-neutral float-left" title="Network Configuration" accesskey="p" rel="prev"><span class="fa fa-arrow-circle-left"></span> Previous</a>
       
     </div>
   

diff --git a/docs/source/consume_mordor.rst b/docs/source/consume_mordor.rst
@@ -82,7 +82,7 @@ Download the mordor repo and choose your technique:
 
     $ cd ../../
     $ git clone https://github.com/Cyb3rWard0g/mordor.git
-    $ cd mordor/atomic_logs/windows/credential_access/credential_dumping/dcsync
+    $ cd mordor/small_datasets/windows/credential_access/credential_dumping_T1003/credentials_from_ad/
 
 Decompress the specific mordor log file
 
@@ -197,16 +197,16 @@ Create a new notebook
 
 .. image:: _static/jupyter-list-dir.png
     :alt: Jupyter list mordor files
-    :scale: 35%
+    :scale: 30%
 
 Decompress the mordor file you want to work with. Let's pick a dcsync example.
 
 .. image:: _static/jupyter-decompress-file.png
     :alt: Jupyter decompress file
-    :scale: 35%
+    :scale: 30%
 
 Use pandas to read the file. You are ready to start exploring and analyzing the data
 
 .. image:: _static/jupyter-dcsync-logs.png
     :alt: Jupyter Pandas
-    :scale: 35%
+    :scale: 30%
